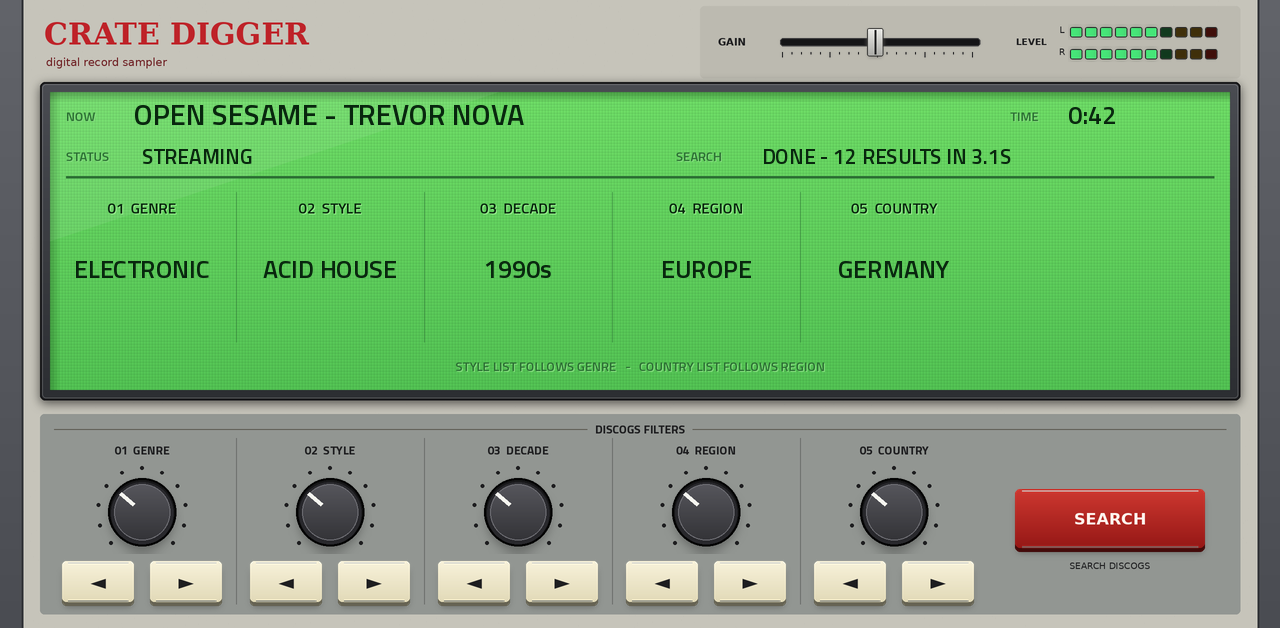
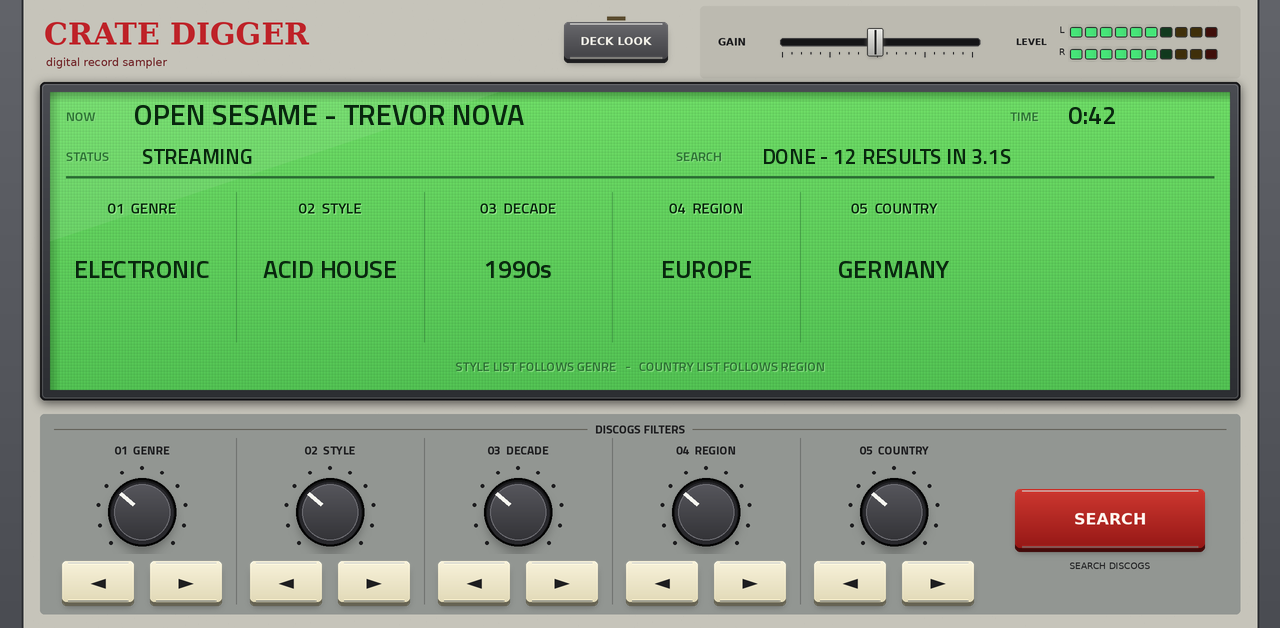
README and screenshots for 2.2: both looks, new sampler screenshots
- The intro describes both looks; the FIND screenshot sits with the other
  sampler pages; the deck section mentions the strobe lamp and the pitch
  fader's centre click and green zero light.
- Sampler screenshots redrawn (they now show the DECK LOOK key).
- Build: the SDK, the catalog zips, the daemon test and the offline preview.
- Known limitations: 2.1 and 2.2 not yet tested on a Force.
- make_tui.py --preview --nokb also leaves out the full-screen keyboard's
  text field.

Claude-Session: https://claude.ai/code/session_01CpoP2s9wKTYMhtv1U7UxtL

Changed region(s): [[0.4375, 0.0303, 0.5312, 0.121]]

diff --git a/tools/make_tui.py b/tools/make_tui.py
@@ -500,7 +500,8 @@ def preview(pages, tabs):
         for e in p.kids:
             cd = e["componentData"]
             x, y, w, h = [float(v) for v in e["bounds"]["bounds"].split()]
-            if "--nokb" in sys.argv and (cd["name"] == "noop" or cd["type"].startswith("cd_kb_") or cd["type"] == "cd_kbplate"):
+            if "--nokb" in sys.argv and (cd["name"] == "noop" or cd["type"].startswith("cd_kb_") or cd["type"] == "cd_kbplate"
+                                         or "IndexedEnabling/1/2/%s" % P("kb") in e["bounds"].get("additionalInvalidatingHandles", [])):
                 continue
             if cd["type"] == "Image" and cd["data"].get("imageType") == "FilmStrip":
                 st = Image.open(os.path.join(OUT, cd["data"]["image"])).convert("RGBA")

diff --git a/README.md b/README.md
@@ -6,8 +6,9 @@
 style, decade, region and country, and it finds random releases on Discogs, then streams a playable version (usually from YouTube) so you can
 audition and resample them. It can also search YouTube for text you type, or pick uploads from your own YouTube channels and playlists.
 
-The screen is styled after a vintage MPC: a green LCD that shows what is playing, the status, the time and your filters, big knobs and keys,
-a GAIN fader and a stereo level meter. Everything is reachable from the Q-Links.
+It has two looks, switched with one key: a **vintage sampler** (a green LCD that shows what is playing, the status, the time and your filters,
+big knobs and keys, a GAIN fader and a stereo level meter) and a **deck** (a turntable, a record crate and an amp; see [Deck look](#deck-look)).
+Everything is reachable from the Q-Links.
 
 ![PLAY](docs/screenshots/play.png)
 
@@ -25,6 +26,7 @@ a GAIN fader and a stereo level meter. Everything is reachable from the Q-Links.
   1.x still load.
 
 ![FILTERS](docs/screenshots/filters.png)
+![FIND](docs/screenshots/find.png)
 
 ## Deck look
 A second look, switched with **DECK LOOK** (top of every sampler page; on the deck it is on FIND). It applies to every Crate Digger on the MPC
@@ -33,9 +35,9 @@ and stays until you switch back.
 ![Deck: PLAY](docs/screenshots/deck-play.png)
 
 - **A turntable.** The record's label is a display (status, what is playing, the time) with the cover shown as dots behind its glass.
-  The record turns while it plays (64-bit MPCs; on 32-bit ones it stays still to save CPU).
+  The record turns while it plays (64-bit MPCs; on 32-bit ones it stays still to save CPU), and the strobe lamp lights the platter's dots.
 - **The tonearm follows the track; drag it to move.** Drag it up towards the label to go forward, down to go back: the needle drops where you let go.
-- **A real pitch fader** (+-8 %, RESET) and **33 / 45**: the track plays faster or slower, pitch and tempo together, as a turntable does.
+- **A real pitch fader** (+-8 %, RESET, a centre click and a green light at 0) and **33 / 45**: the track plays faster or slower, pitch and tempo together, as a turntable does.
 - **The crate** holds the results as an assortment of sleeves (text coloured to stay readable on each), with PAGE tabs; an amp in front of it has the VU meters, GAIN, the search status and SEARCH.
 - **FILTERS and FIND** are consoles that match the amp: a fader with up / down keys for each filter, the source keys and the length faders.
 - **Q-Links on PLAY:** pitch, gain, the results page and the tonearm (turn it to move through the track), then the transport. The deck draws no
@@ -70,7 +72,6 @@ older Crate Digger (1.x) is replaced and your `channels.txt` is kept. Add `-y` t
 
 The plugin folder is about 125 MB (armv7) or 180 MB (aarch64): it carries its own yt-dlp, Python and ffmpeg and needs no other setup. To upgrade,
 replace the whole plugin folder.
-![FIND](docs/screenshots/find.png)
 
 ## Using it
 1. **FILTERS:** turn a knob (or tap its arrows) to pick a genre, style, decade, region and country; each choice shows on the LCD above its knob.
@@ -103,14 +104,15 @@ It resolves and streams Discogs results through yt-dlp and ffmpeg on a worker th
 ring. `src/sdk/CrateDiggerPlugin.cpp` is the plugin and `tools/make_tui.py` draws the skin.
 
 ## Build
-Needs Docker. `./build-sdk.sh` builds both CPUs into `build/sdk/`; `tools/package.sh` makes the two zips in `dist/`;
-`tests/run.sh` runs the offline test. The engine bundles (yt-dlp, Python, ffmpeg) are taken from the previous release the first time.
+Needs Docker and the MPC Plugin SDK (`MPC_SDK`). `./build-sdk.sh` builds both CPUs into `build/sdk/`; `tools/package.sh` makes the two
+plugin-folder zips in `dist/` and `tools/package_catalog.sh` the two catalog zips; `tests/run.sh` runs the offline test and `tests/daemon_test.py`
+the search daemon's. `tools/make_tui.py --preview` draws both looks offline into `build/preview/`. The engine bundles (yt-dlp, Python, ffmpeg) are taken from the previous release the first time.
 
 ## Known limitations
 - A browser and player, not a synth: it makes no MIDI notes and ignores MIDI input.
 - Playback depends on yt-dlp resolving the linked sources live on the device; those paths break upstream from time to time, and a result can be
   unavailable in your region.
-- Tested on an MPC Live III and a Force.
+- 2.2 is tested on an MPC Live III. Earlier versions also ran on a Force; 2.1 and 2.2 are not yet tested on one (32-bit).
 
 ## Credits and licence
 MIT, see `LICENSE`. The streaming core is MIT licensed by Charles Vestal (`UPSTREAM_LICENSE.txt`, `UPSTREAM_THIRD_PARTY_NOTICES.md`). The channel
